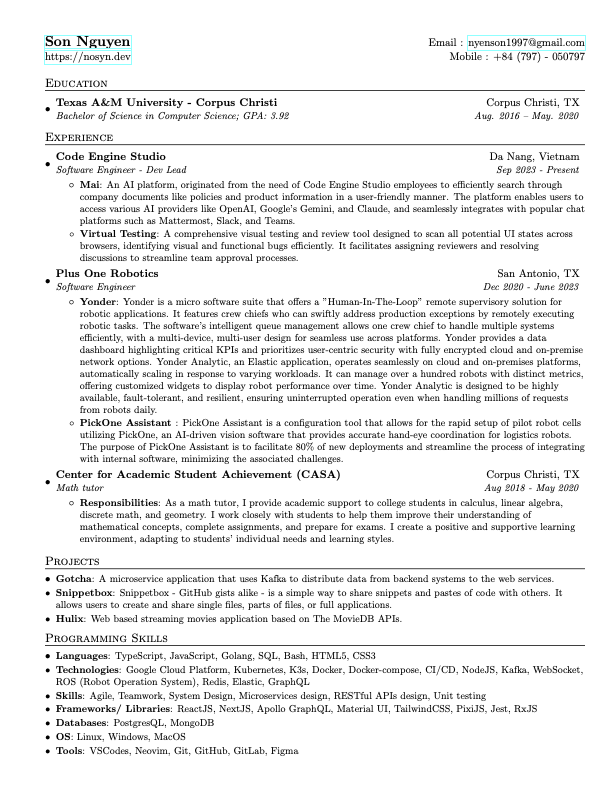
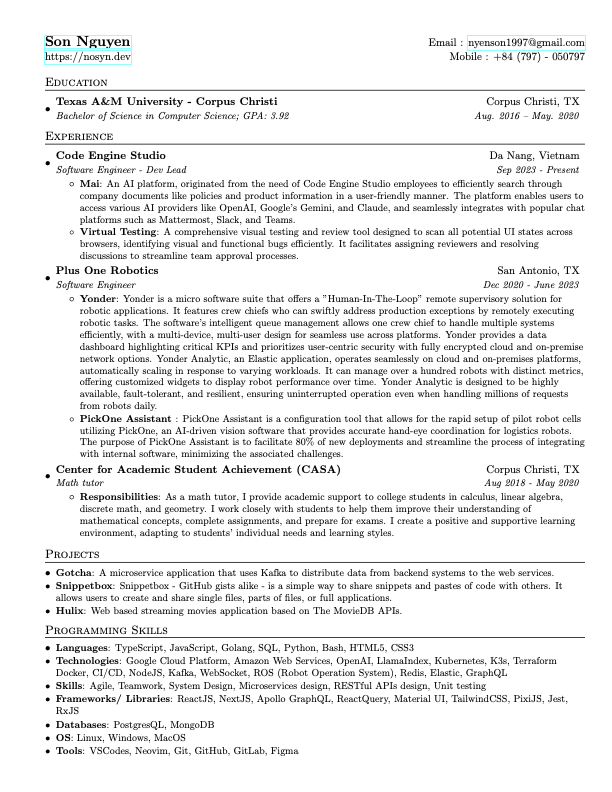
Update resume - Jun 6 2024

Changed region(s): [[0.0621, 0.0909, 0.9624, 0.9394], [0.8072, 0.1212, 0.9624, 0.1515]]

diff --git a/resume.tex b/resume.tex
@@ -140,13 +140,13 @@
 \section{Programming Skills}
  \resumeSubHeadingListStart
     \resumeSubItem{Languages}
-      {TypeScript, JavaScript, Golang, SQL, Bash, HTML5, CSS3}
+      {TypeScript, JavaScript, Golang, SQL, Python, Bash, HTML5, CSS3}
     \resumeSubItem{Technologies}
-      {Google Cloud Platform, Kubernetes, K3s, Docker, Docker-compose, CI/CD, NodeJS, Kafka, WebSocket, ROS (Robot Operation System), Redis, Elastic, GraphQL}
+      {Google Cloud Platform, Amazon Web Services, OpenAI, LlamaIndex, Kubernetes, K3s, Terraform Docker, CI/CD, NodeJS, Kafka, WebSocket, ROS (Robot Operation System), Redis, Elastic, GraphQL}
     \resumeSubItem{Skills}
       {Agile, Teamwork, System Design, Microservices design, RESTful APIs design, Unit testing}
     \resumeSubItem{Frameworks/ Libraries}
-      {ReactJS, NextJS, Apollo GraphQL, Material UI, TailwindCSS, PixiJS, Jest, RxJS}
+      {ReactJS, NextJS, Apollo GraphQL, ReactQuery, Material UI, TailwindCSS, PixiJS, Jest, RxJS}
     \resumeSubItem{Databases}
       {PostgresQL, MongoDB}    
     \resumeSubItem{OS}
